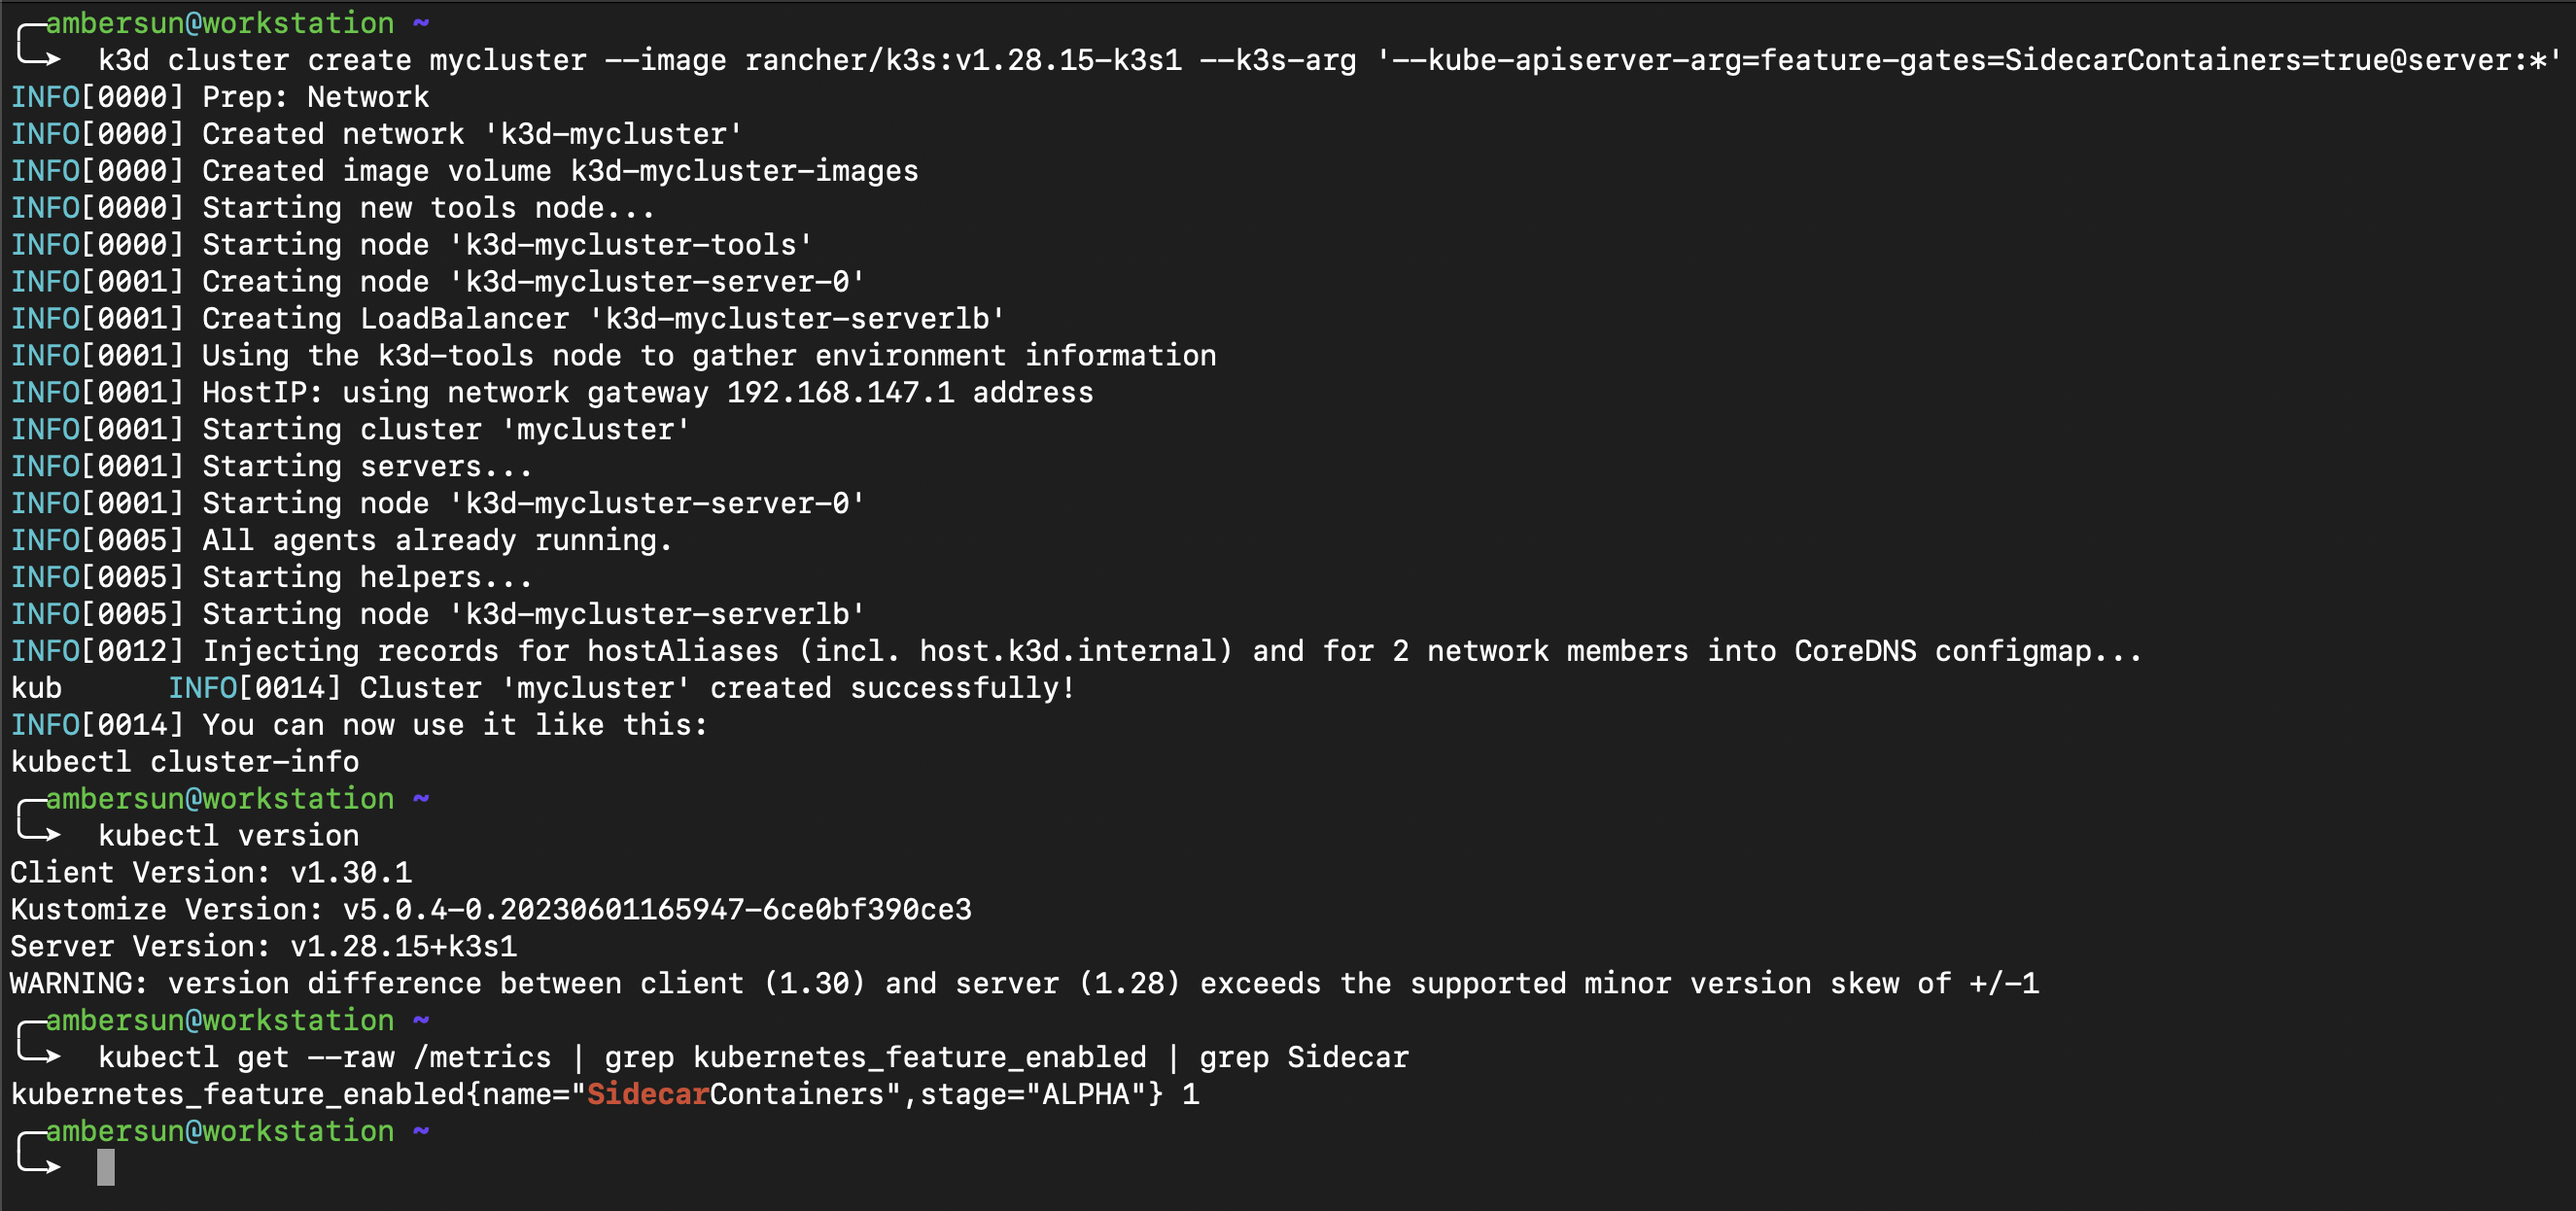
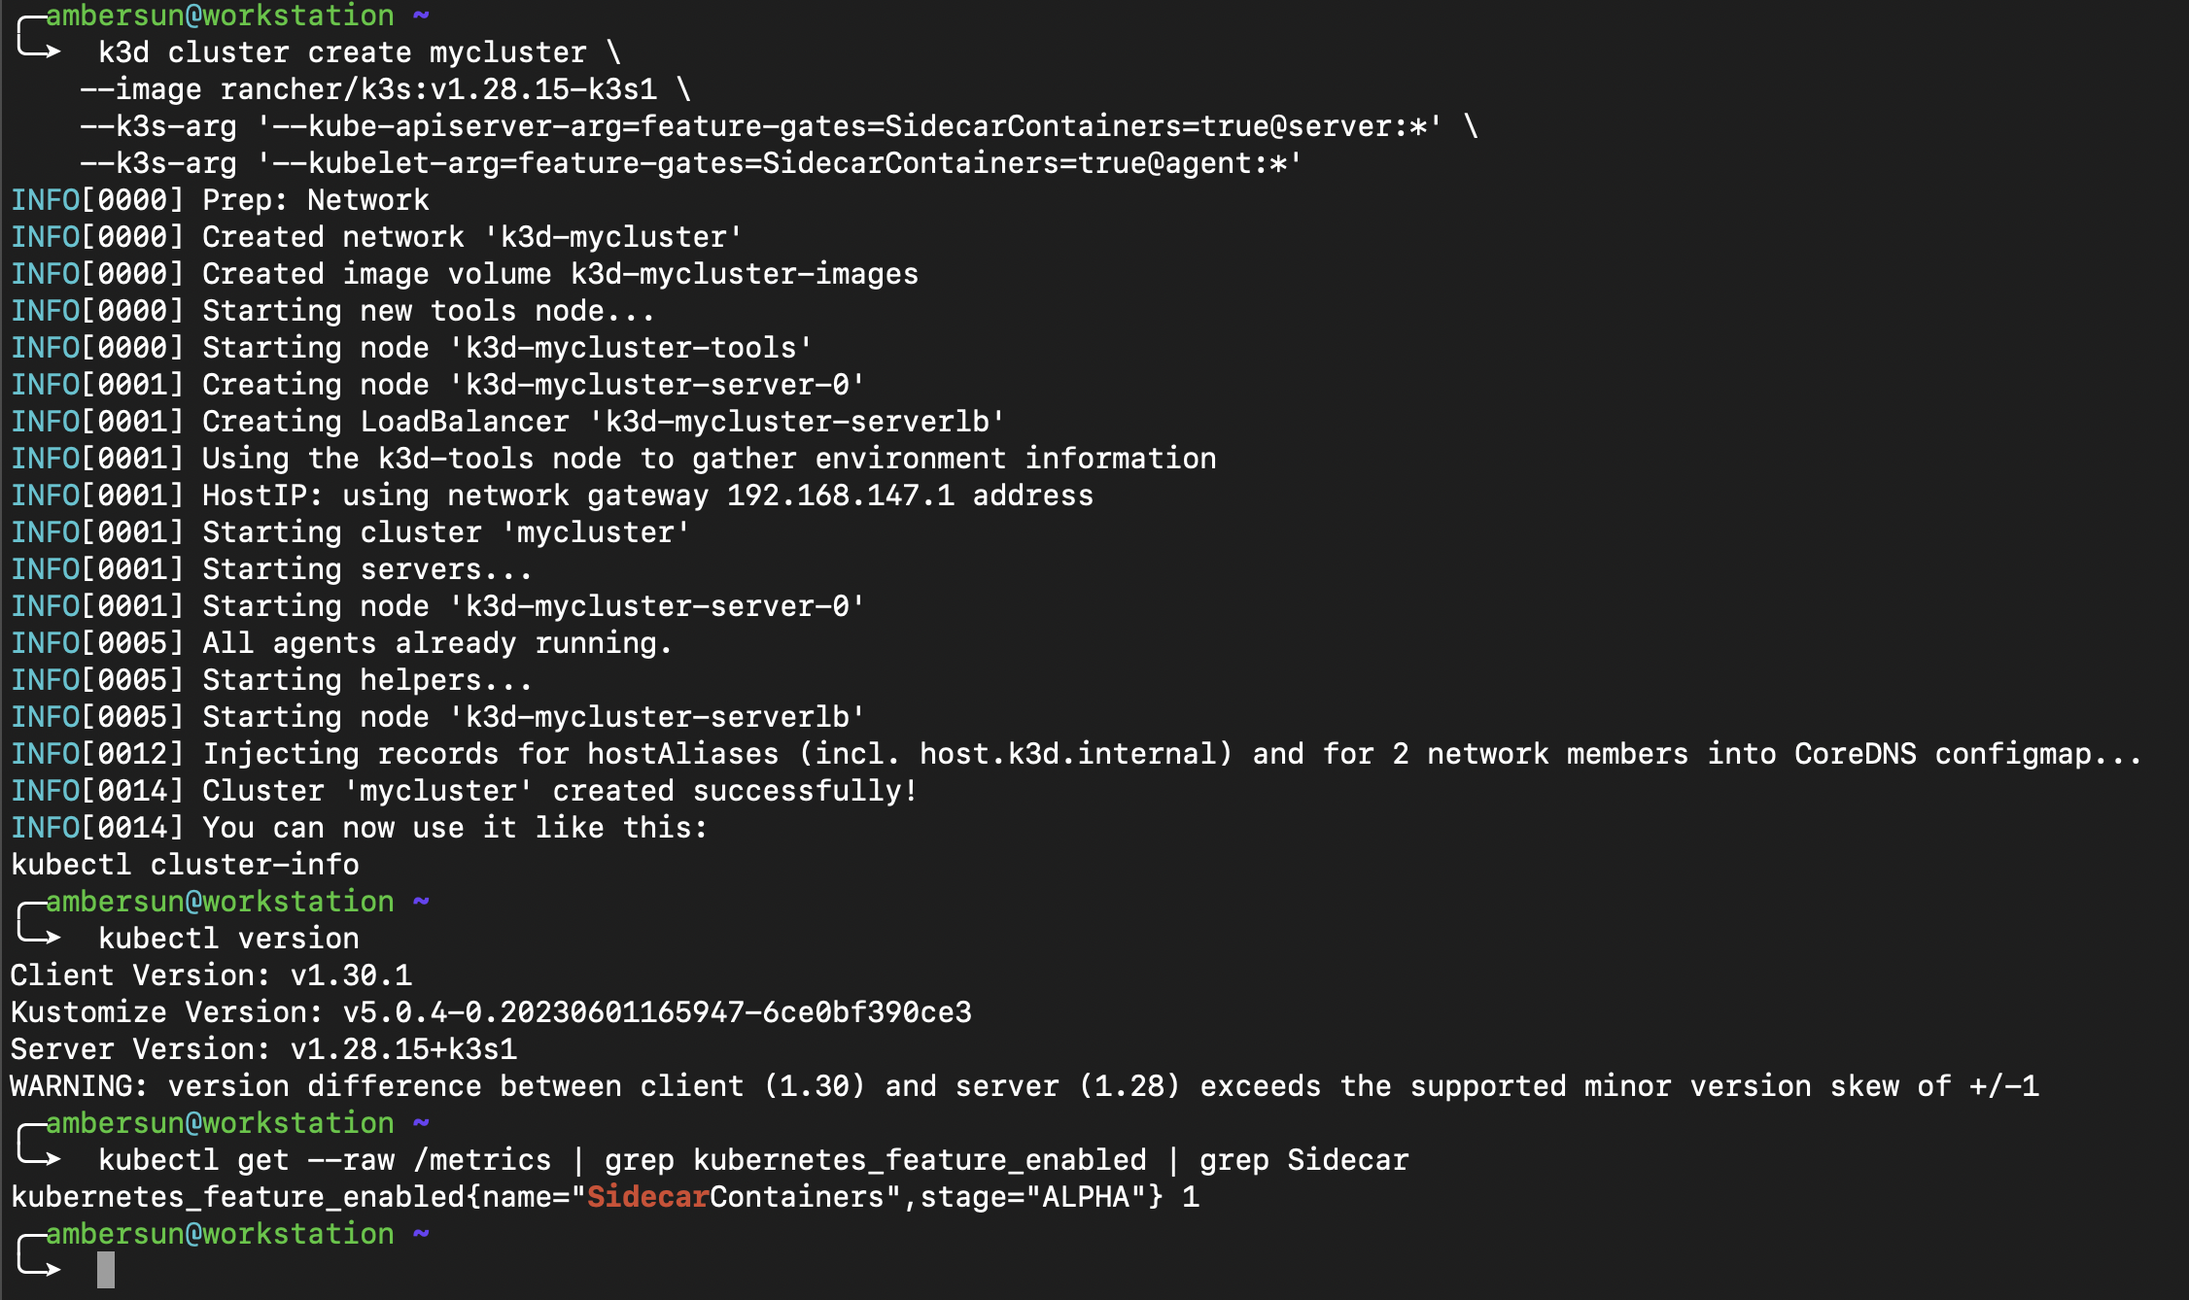
(#3) Update kubelet arg in k3d

Changed region(s): [[0.0, 0.0, 0.9947, 1.0], [0.8393, 0.549, 0.9636, 0.61]]

diff --git a/_posts/kubernetes/2025-05-18-kubernetes-sidecar.md b/_posts/kubernetes/2025-05-18-kubernetes-sidecar.md
@@ -131,8 +131,11 @@ kubernetes_feature_enabled{name="SidecarContainers",stage="BETA"} 1
 ```shell
 $ k3d cluster create mycluster \
     --image rancher/k3s:v1.28.15-k3s1 \
-    --k3s-arg '--kube-apiserver-arg=feature-gates=SidecarContainers=true@server:*'
+    --k3s-arg '--kube-apiserver-arg=feature-gates=SidecarContainers=true@server:*' \
+    --k3s-arg '--kubelet-arg=feature-gates=SidecarContainers=true@agent:*'
 ```
+
+> 如果是 K3s 只要開 `--kube-apiserver-arg` 即可
 
 ![](/assets/img/posts/sidecar-1.28-overwrite.png)
 
@@ -468,3 +471,4 @@ $ trap 'exit 0' TERM; sleep 86400 & wait
 + ["trap ... INT TERM EXIT" really necessary?](https://unix.stackexchange.com/questions/57940/trap-int-term-exit-really-necessary)
 + [Cannot trap SIGINT and SIGTERM when using "sleep infinity" [duplicate]](https://stackoverflow.com/questions/78432948/cannot-trap-sigint-and-sigterm-when-using-sleep-infinity/78432970#78432970)
 + [shell中trap的使用](https://blog.csdn.net/qing101hua/article/details/93619508)
++ [FAQ](https://k3d.io/v5.8.3/faq/faq/)
